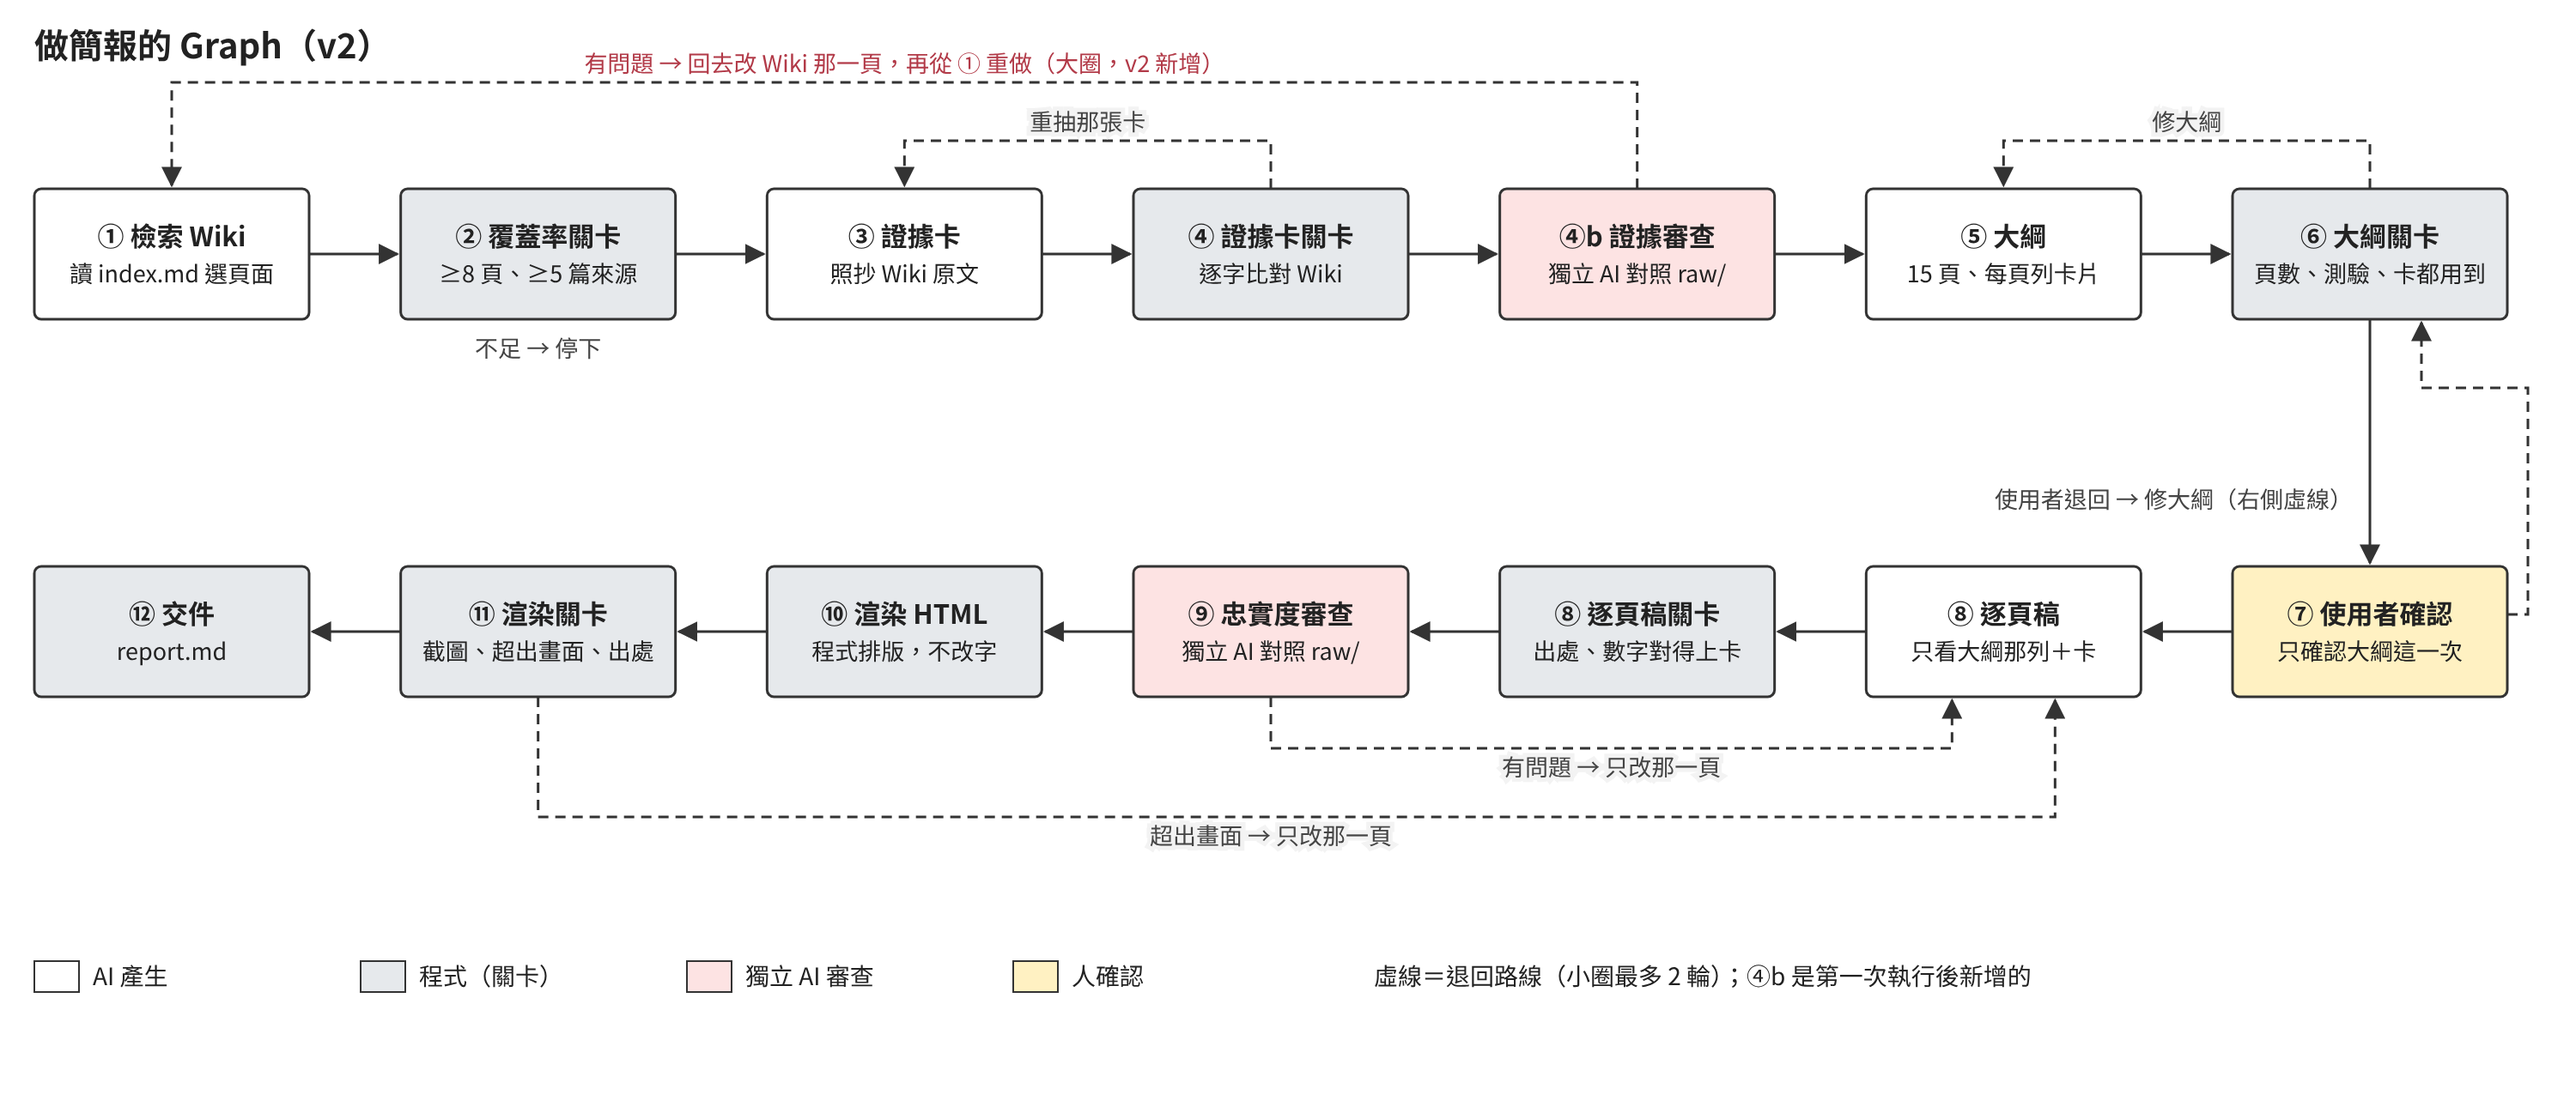
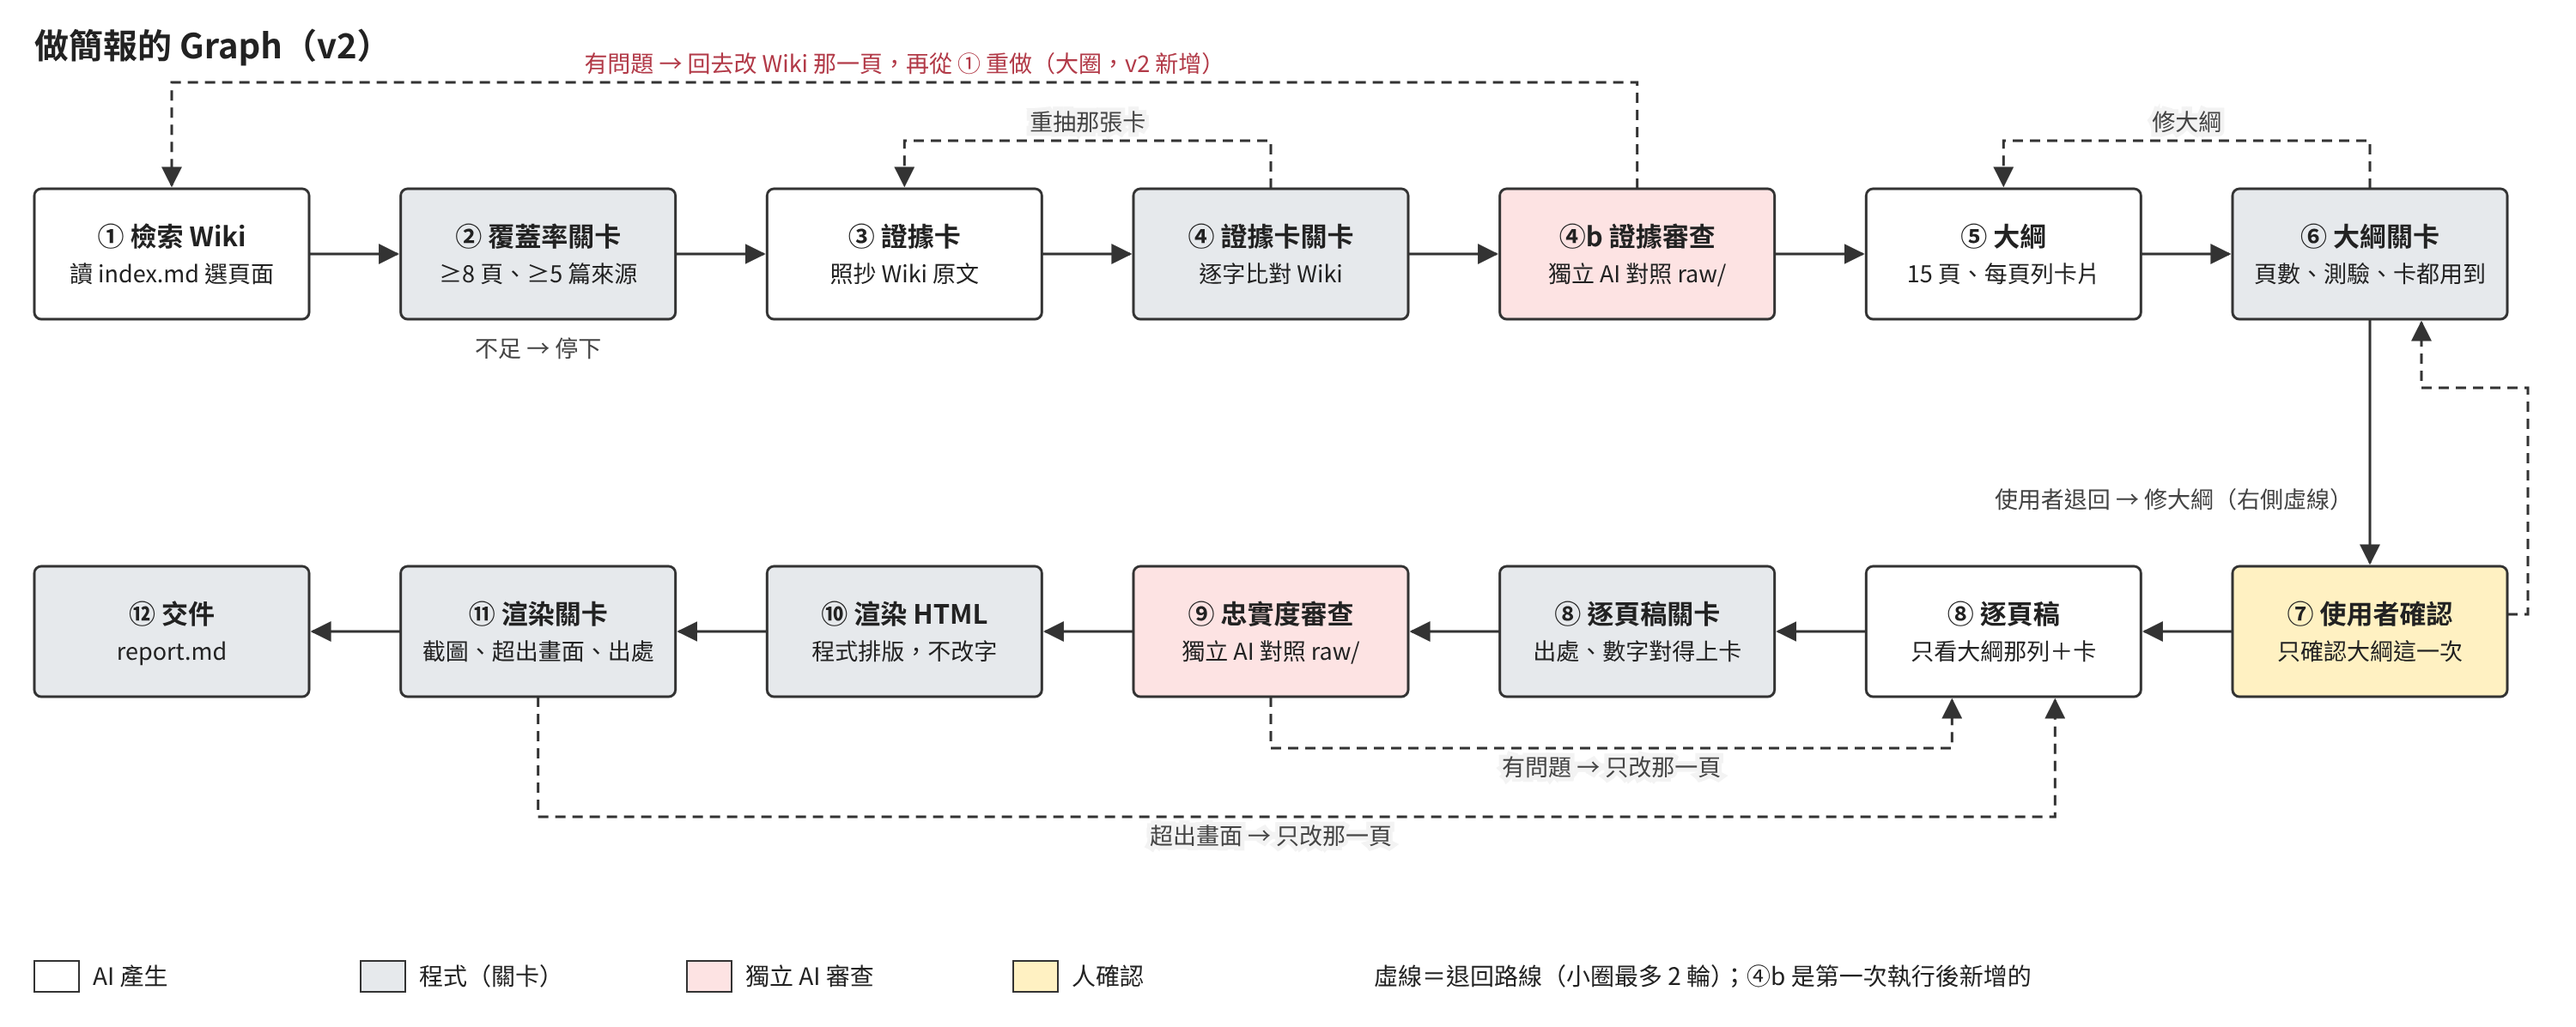
Add files via upload

diff --git a/index.html b/index.html
@@ -27,7 +27,10 @@
   .card b { display:block; color:var(--navy); }
   .card span { font-size:14px; color:var(--muted); }
   ol.flow { background:#fff; border:1px solid var(--line); border-radius:10px; padding:14px 20px 14px 40px; margin:0 0 12px; }
-  img.graph { width:100%; background:#fff; border:1px solid var(--line); border-radius:10px; }
+  .graph-wrap { width:min(1400px, calc(100vw - 32px)); margin-left:50%; transform:translateX(-50%); }
+  .graph-wrap a { display:block; }
+  img.graph { width:100%; display:block; background:#fff; border:1px solid var(--line); border-radius:10px; cursor:zoom-in; }
+  .graph-wrap p { margin:6px 0 0; text-align:right; font-size:13px; color:var(--muted); }
   .muted { color:var(--muted); font-size:14px; }
   @media (max-width:700px) { .deck, .cards { grid-template-columns:1fr; } }
 </style>
@@ -47,7 +50,7 @@
     </div>
   </a>
 
-  <h2>Wiki（49 頁，直接在這個網站上看）</h2>
+  <h2>Wiki</h2>
   <div class="cards">
     <a class="card" href="wiki.html?f=wiki/index.md"><b>Wiki 目錄</b><span>概念 19、爭議 3、常見誤解 9、來源 18</span></a>
     <a class="card" href="wiki.html?f=wiki/concepts/overview.md"><b>範例：總覽</b><span>垃圾大致分成四類</span></a>
@@ -71,7 +74,10 @@
     <li>逐頁稿 → 逐頁稿關卡（程式）→ 忠實度審查（獨立 AI）</li>
     <li>渲染 HTML（程式）→ 渲染關卡（程式）→ 交件</li>
   </ol>
-  <img class="graph" src="slides/garbage-intro/graph.png" alt="做簡報的 Graph 流程圖">
+  <div class="graph-wrap">
+    <a href="slides/garbage-intro/graph.png" target="_blank" rel="noopener"><img class="graph" src="slides/garbage-intro/graph.png" alt="做簡報的 Graph 流程圖"></a>
+    <p>點圖片可以看原始大小</p>
+  </div>
   <div class="cards" style="margin-top:12px">
     <a class="card" href="wiki.html?f=.agents/workflows/topic-slides.md"><b>流程定義</b><span>每一關做什麼、v1 → v2 修改紀錄</span></a>
     <a class="card" href="wiki.html?f=slides/garbage-intro/run-log.md"><b>執行紀錄</b><span>每一關的時間、結果、問題清單</span></a>

diff --git a/README.md b/README.md
@@ -3,7 +3,7 @@
 TAICA「生成式 AI：文字與圖像生成的原理與實務」第十週作業：先建一個 LLM Wiki，再用它當知識庫做一份教學 HTML 簡報。
 
 - 教學簡報：https://b1243006.github.io/garbage-llm-wiki/slides/garbage-intro/deck.html
-- 網站首頁：https://b1243006.github.io/garbage-llm-wiki/（Wiki 和所有紀錄都可以直接在網站上看，用 `wiki.html` 排版）
+- 網站首頁：https://b1243006.github.io/garbage-llm-wiki/
 - Wiki 目錄：[wiki/index.md](wiki/index.md)（49 頁：來源 18、概念 19、爭議 3、常見誤解 9）
 - 建 Wiki 之前的訪談與需求摘要：[discussion/](discussion/)
 - Wiki 的規則：[AGENTS.md](AGENTS.md)
